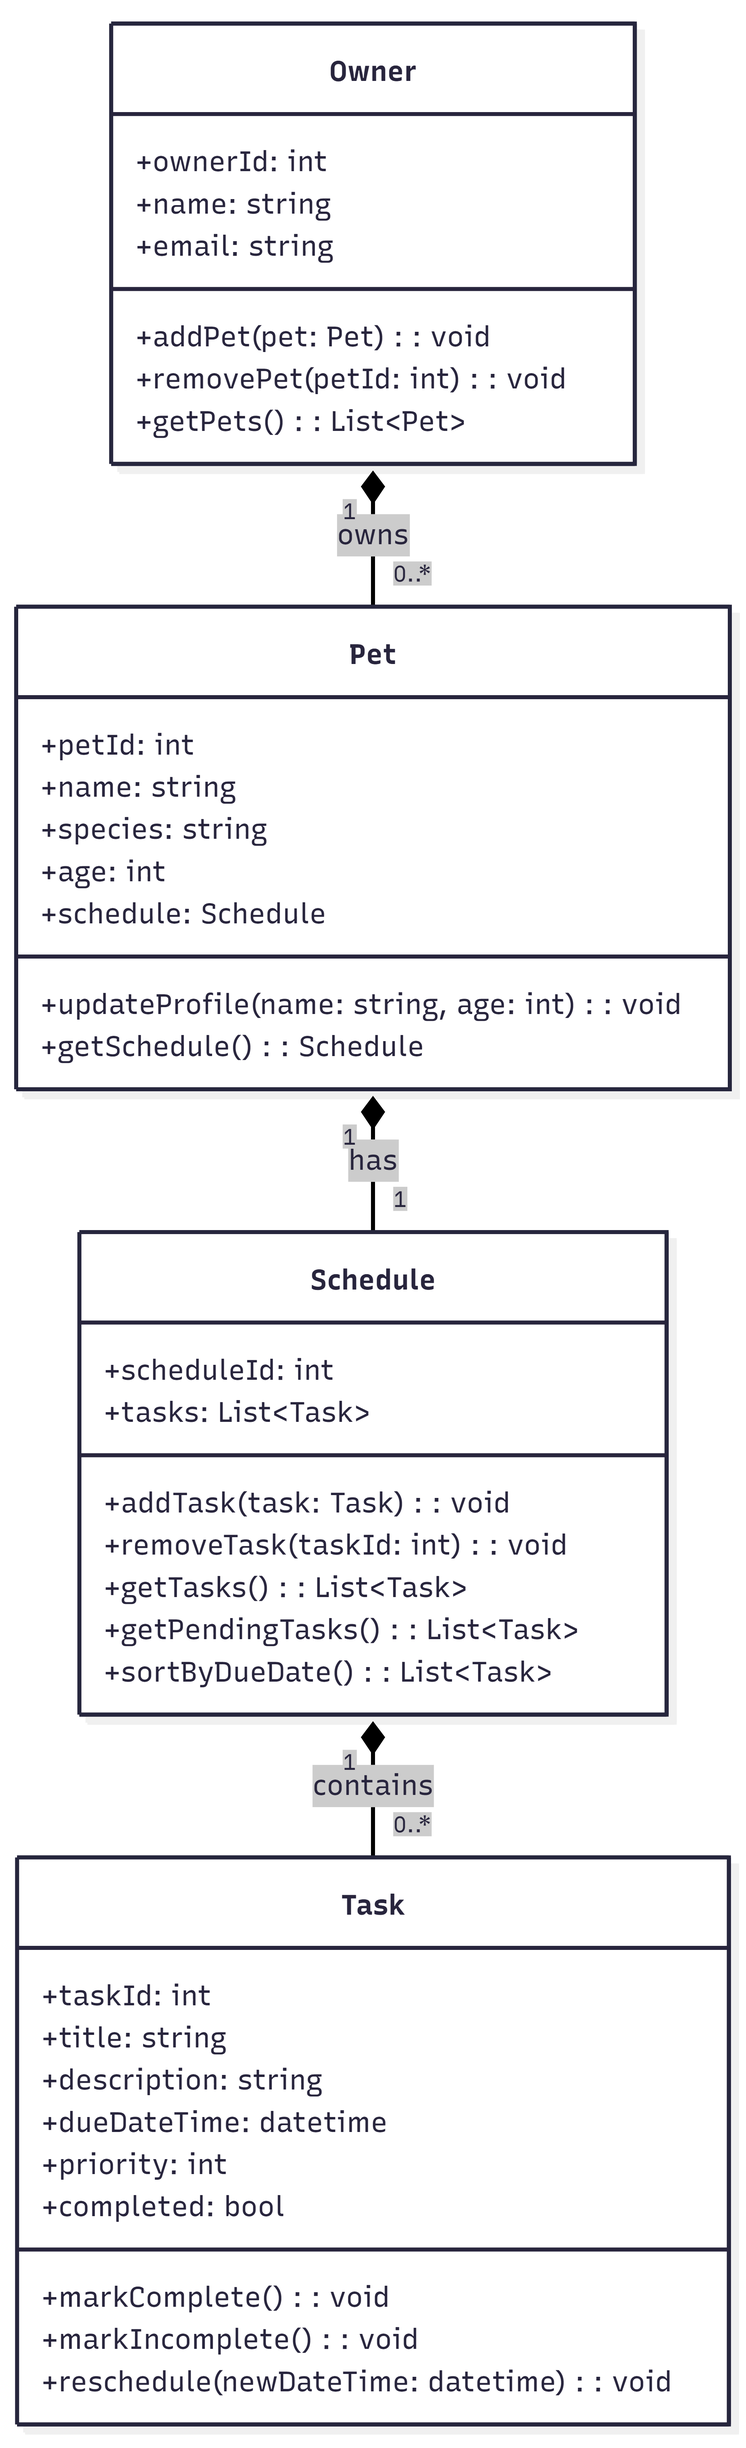
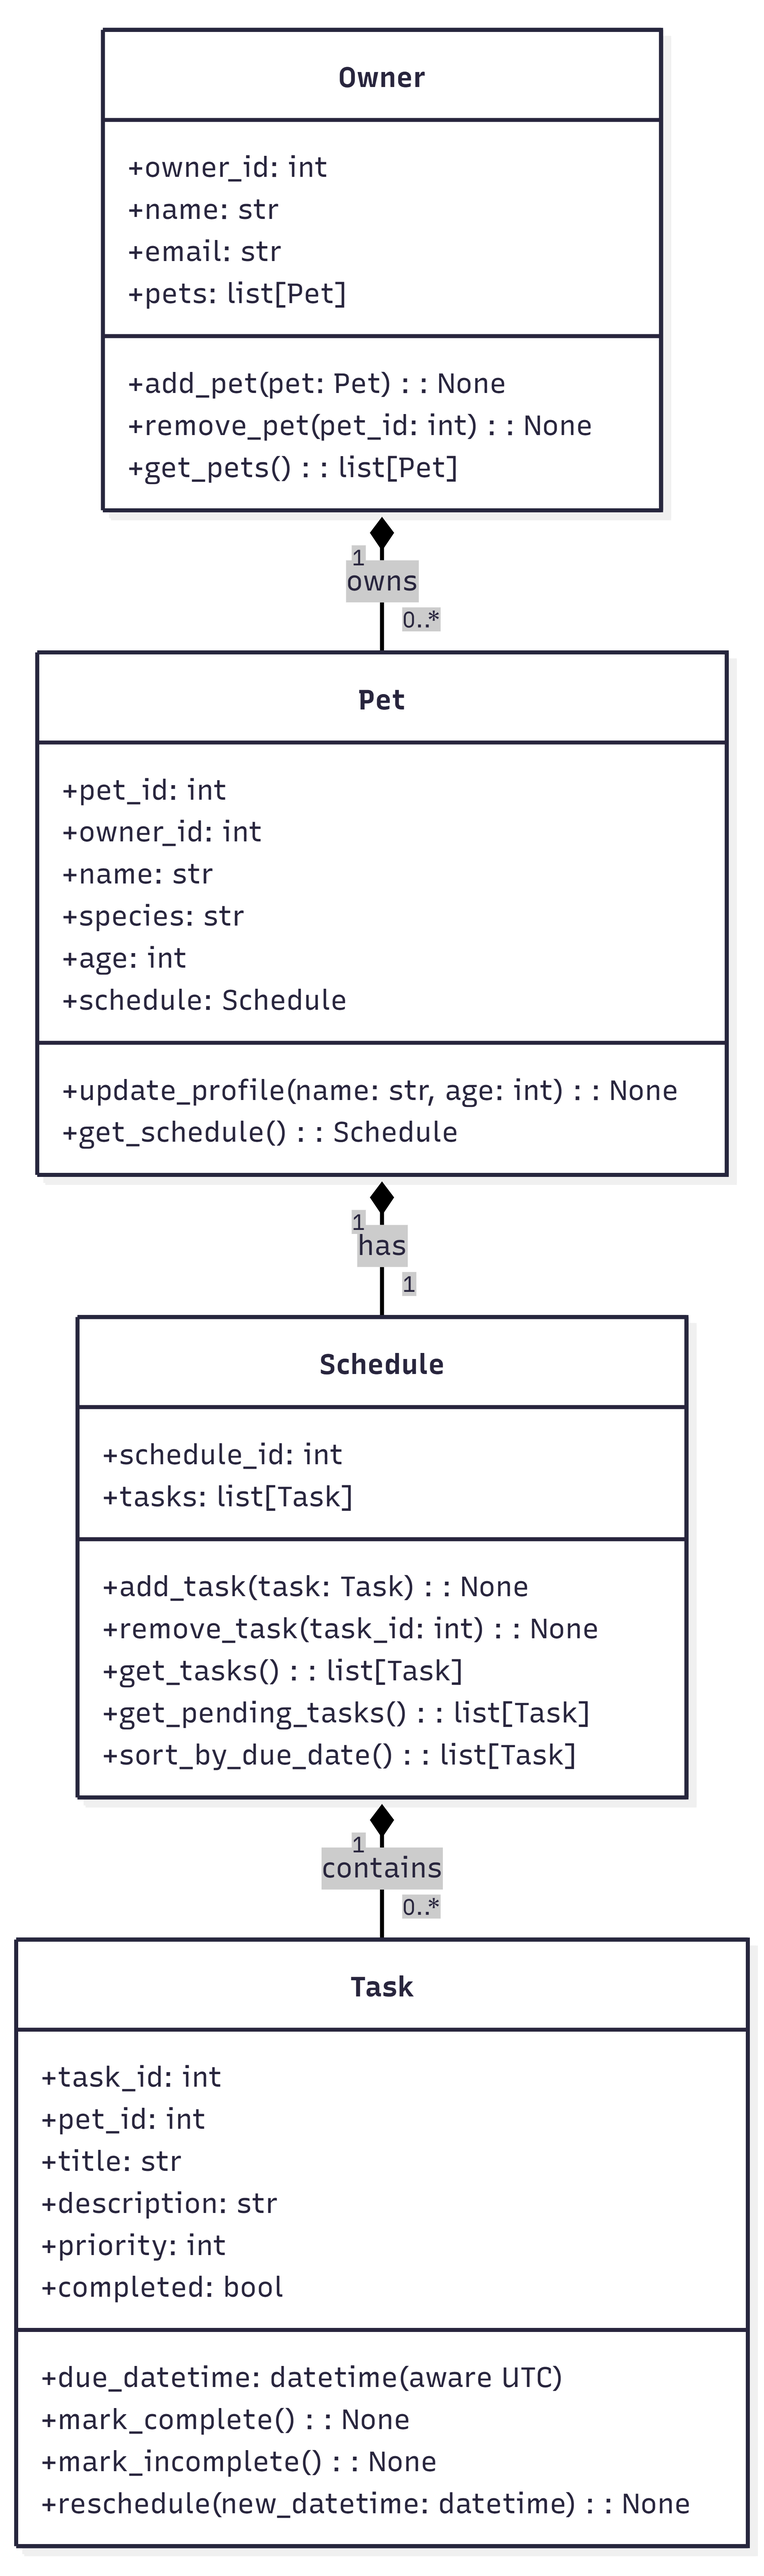
refined uml and updated reflection

Changed region(s): [[0.0, 0.0, 0.9892, 0.9997]]

diff --git a/reflection.md b/reflection.md
@@ -17,6 +17,14 @@ a list of Task objects for each pet.
 - Did your design change during implementation?
 - If yes, describe at least one change and why you made it.
 
+My design changed slightly during implementation. Copilot was suggesting a fix
+for the built-in datetime class for Python, which is a bit naive and doesn't
+account for varying timezones, which can break logic for something that relies 
+on correct time as much as a scheduler. It also improved my UML diagram by 
+adding a few missing attributes such as a list of Pets for each Owner. I made
+this change because Owners should be able to own multiple Pets and thus have
+specific tasks for each particular pet.
+
 ---
 
 ## 2. Scheduling Logic and Tradeoffs
